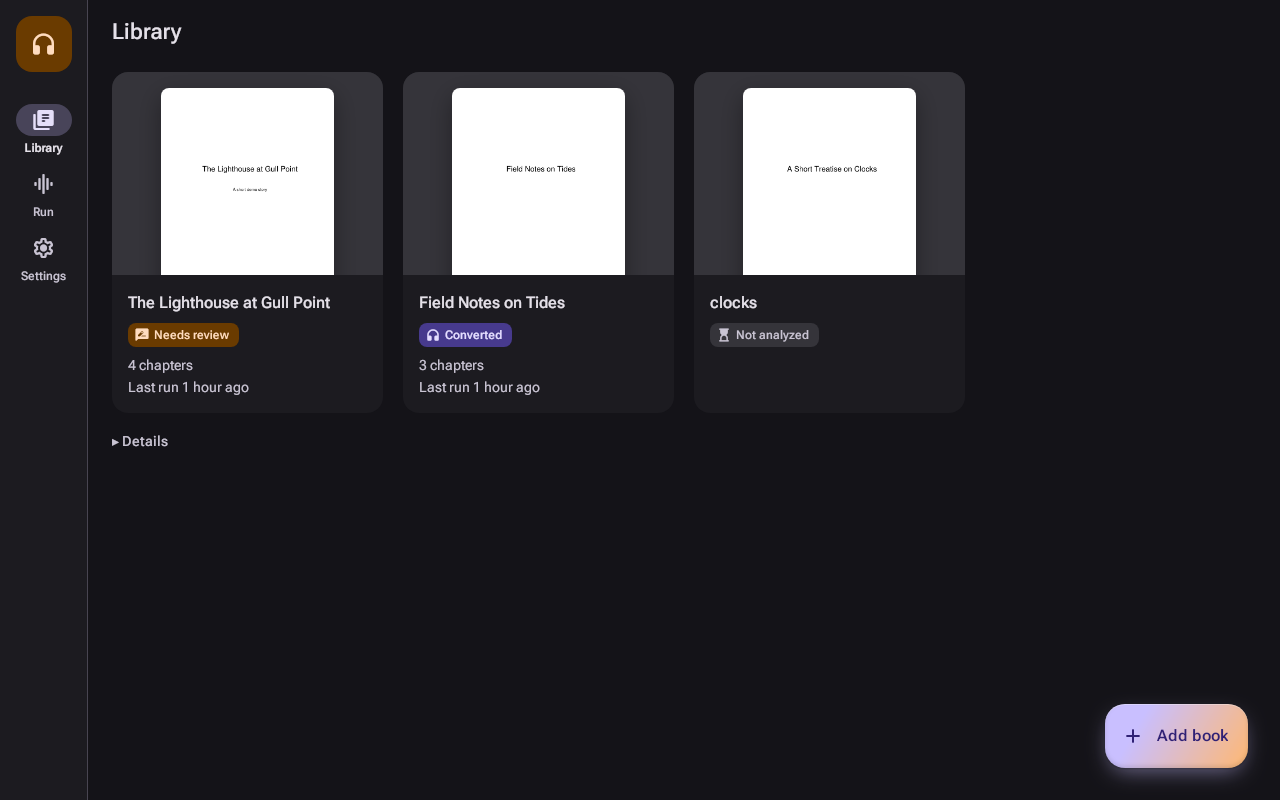
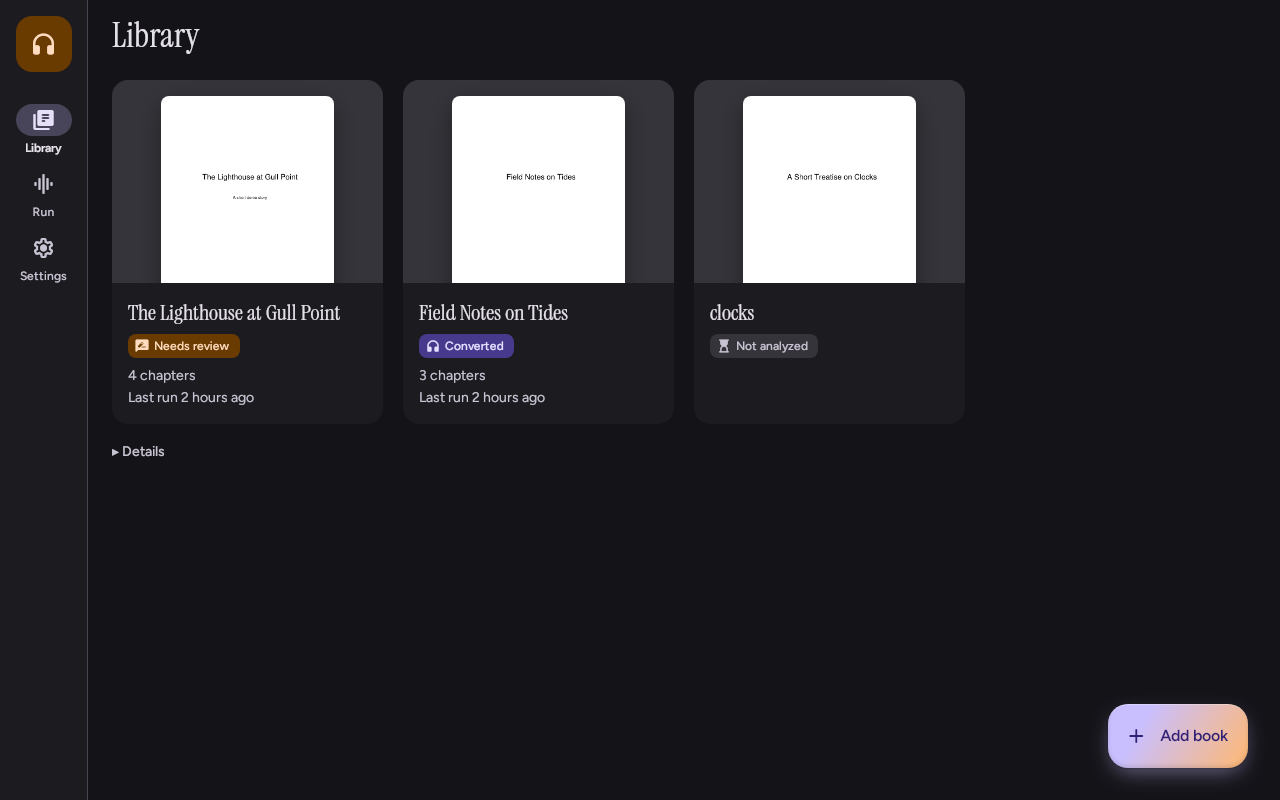
feat(desktop): set headings in instrument serif and the interface in figtree

diff --git a/desktop/src/theme/base.css b/desktop/src/theme/base.css
@@ -2,7 +2,9 @@
  * Colour variables come from `virtual:m3-theme.css`, generated from the seeds at build time.
  * Every font is bundled from node_modules; nothing is fetched at run time (D11.d, D11.g). */
 
-@import "@fontsource-variable/roboto-flex/index.css";
+@import "@fontsource/instrument-serif/400.css";
+@import "@fontsource/instrument-serif/400-italic.css";
+@import "@fontsource-variable/figtree/index.css";
 @import "@fontsource-variable/roboto-mono/index.css";
 
 @font-face {
@@ -15,8 +17,10 @@
 
 :root {
   /* Typefaces: @material/web reads the --md-ref-typeface-* variables. */
-  --md-ref-typeface-brand: "Roboto Flex Variable", system-ui, sans-serif;
-  --md-ref-typeface-plain: "Roboto Flex Variable", system-ui, sans-serif;
+  /* Instrument Serif for headings and book titles, Figtree for the interface (owner's choice). */
+  --md-ref-typeface-brand: "Instrument Serif", Georgia, serif;
+  --md-ref-typeface-plain: "Figtree Variable", system-ui, sans-serif;
+  --app-font-display: var(--md-ref-typeface-brand);
   --app-font-mono: "Roboto Mono Variable", ui-monospace, monospace;
 
   /* Material 3 type scale. */
@@ -110,10 +114,18 @@ body {
   font-weight: 500;
 }
 
+/* Display text: Instrument Serif has one weight, so it is set larger instead of bolder. */
+.display-text,
 .headline-small {
-  font-size: var(--md-sys-typescale-headline-small-size);
-  line-height: var(--md-sys-typescale-headline-small-line-height);
-  font-weight: 500;
+  font-family: var(--app-font-display);
+  font-weight: 400;
+  font-synthesis: none;
+  letter-spacing: 0.005em;
+}
+
+.headline-small {
+  font-size: 30px;
+  line-height: 36px;
 }
 
 .body-medium {

diff --git a/desktop/src/ui/shell.css b/desktop/src/ui/shell.css
@@ -86,16 +86,19 @@
   display: flex;
   align-items: center;
   gap: 8px;
-  height: 64px;
+  height: 72px;
   padding: 0 16px 0 24px;
 }
 
 .top-app-bar-title {
   flex: 1;
   margin: 0;
-  font-size: var(--md-sys-typescale-title-large-size);
-  line-height: var(--md-sys-typescale-title-large-line-height);
-  font-weight: 500;
+  font-family: var(--app-font-display);
+  font-size: 34px;
+  line-height: 40px;
+  font-weight: 400;
+  font-synthesis: none;
+  letter-spacing: 0.005em;
 }
 
 .top-app-bar-actions {
@@ -202,8 +205,10 @@
 }
 
 .player-title {
-  font-size: var(--md-sys-typescale-title-small-size);
-  font-weight: 600;
+  font-family: var(--app-font-display);
+  font-size: 19px;
+  font-weight: 400;
+  font-synthesis: none;
   white-space: nowrap;
   overflow: hidden;
   text-overflow: ellipsis;

diff --git a/desktop/src/theme/offline.test.ts b/desktop/src/theme/offline.test.ts
@@ -51,9 +51,10 @@ describe("nothing is fetched at run time", () => {
     }
   });
 
-  it("bundles Roboto Flex, Roboto Mono and the icon subset", () => {
+  it("bundles Instrument Serif, Figtree, Roboto Mono and the icon subset", () => {
     const base = readFileSync(join(DESKTOP, "src/theme/base.css"), "utf8");
-    expect(base).toContain('@import "@fontsource-variable/roboto-flex/index.css"');
+    expect(base).toContain('@import "@fontsource/instrument-serif/400.css"');
+    expect(base).toContain('@import "@fontsource-variable/figtree/index.css"');
     expect(base).toContain('@import "@fontsource-variable/roboto-mono/index.css"');
     const subset = join(DESKTOP, "src/assets/fonts/material-symbols-rounded-subset.woff2");
     expect(statSync(subset).size).toBeLessThan(200_000);

diff --git a/desktop/src/screens/library.css b/desktop/src/screens/library.css
@@ -61,9 +61,11 @@
   display: -webkit-box;
   margin: 0;
   overflow: hidden;
-  font-size: var(--md-sys-typescale-title-medium-size);
-  line-height: var(--md-sys-typescale-title-medium-line-height);
-  font-weight: 500;
+  font-family: var(--app-font-display);
+  font-size: 22px;
+  line-height: 27px;
+  font-weight: 400;
+  font-synthesis: none;
   -webkit-line-clamp: 2;
   -webkit-box-orient: vertical;
 }

diff --git a/docs/PDF2AUDIOBOOK_TAURI_SPEC.md b/docs/PDF2AUDIOBOOK_TAURI_SPEC.md
@@ -302,8 +302,11 @@ The app should look polished, modern and professional, built on Google's
 - **D11.c Theme.** Dark is the default (people often listen in the evening). Light and "follow
   the system" are offered in Settings. Every text and icon pairing meets WCAG AA contrast (4.5:1
   for text, 3:1 for large text and icons); a test computes the ratios from the generated scheme.
-- **D11.d Type and shape.** Material 3 type scale with Roboto Flex for the interface and Roboto
-  Mono for chapter text previews, bundled with the app (no font downloads at run time).
+- **D11.d Type and shape.** Material 3 type scale with Instrument Serif for headings, book titles
+  and other display text (one weight, so it is set larger rather than bolder, with no synthetic
+  bold), Figtree for the interface and Roboto Mono for commands and chapter text, all bundled
+  with the app (no font downloads at run time). The owner chose this pairing on 2026-11-14 from
+  four options (`docs/images/tauri/font-options.png`), replacing the original Roboto Flex.
   Material 3 shape scale: large (16 px) corners for cards, extra-large (28 px) for dialogs,
   full rounding for buttons and chips.
 - **D11.e Layout.** A navigation rail on the left (Library, Run, Settings) and a content area

diff --git a/docs/PDF2AUDIOBOOK_TAURI_TODO.md b/docs/PDF2AUDIOBOOK_TAURI_TODO.md
@@ -356,6 +356,10 @@ dark and light screenshots (spec D11.h).
     `#5f52a7` light primary) and only local fonts. A real `npm run tauri dev` window shows the
     themed shell. Commit 0ec5846acacd50c7e58a141bd836757a59bc373c, Python CI
     [43610399942](https://github.com/ekkus93/pdf2audiobook/actions/runs/43610399942) passed.
+  - Note: On 2026-11-14, after reviewing the first two screens, the owner asked for snazzier
+    buttons (spec D11.i: gradient, gloss, sheen and gradient outlines, commits b93af00 and
+    1ffbf1f) and a more striking font, choosing Instrument Serif with Figtree over the original
+    Roboto Flex (spec D11.d). Roboto Mono stays. The offline test now checks the new fonts.
 - [x] TD5.01 Setup: `doctor --json` results, Ollama served-context check, install hints.
   - Evidence: Setup screen (`src/screens/Setup.tsx`, rules in `setupChecks.ts`): finds the CLI,
     runs `doctor --json` and lists pdf2audiobook (version and where it was found), FFmpeg,
